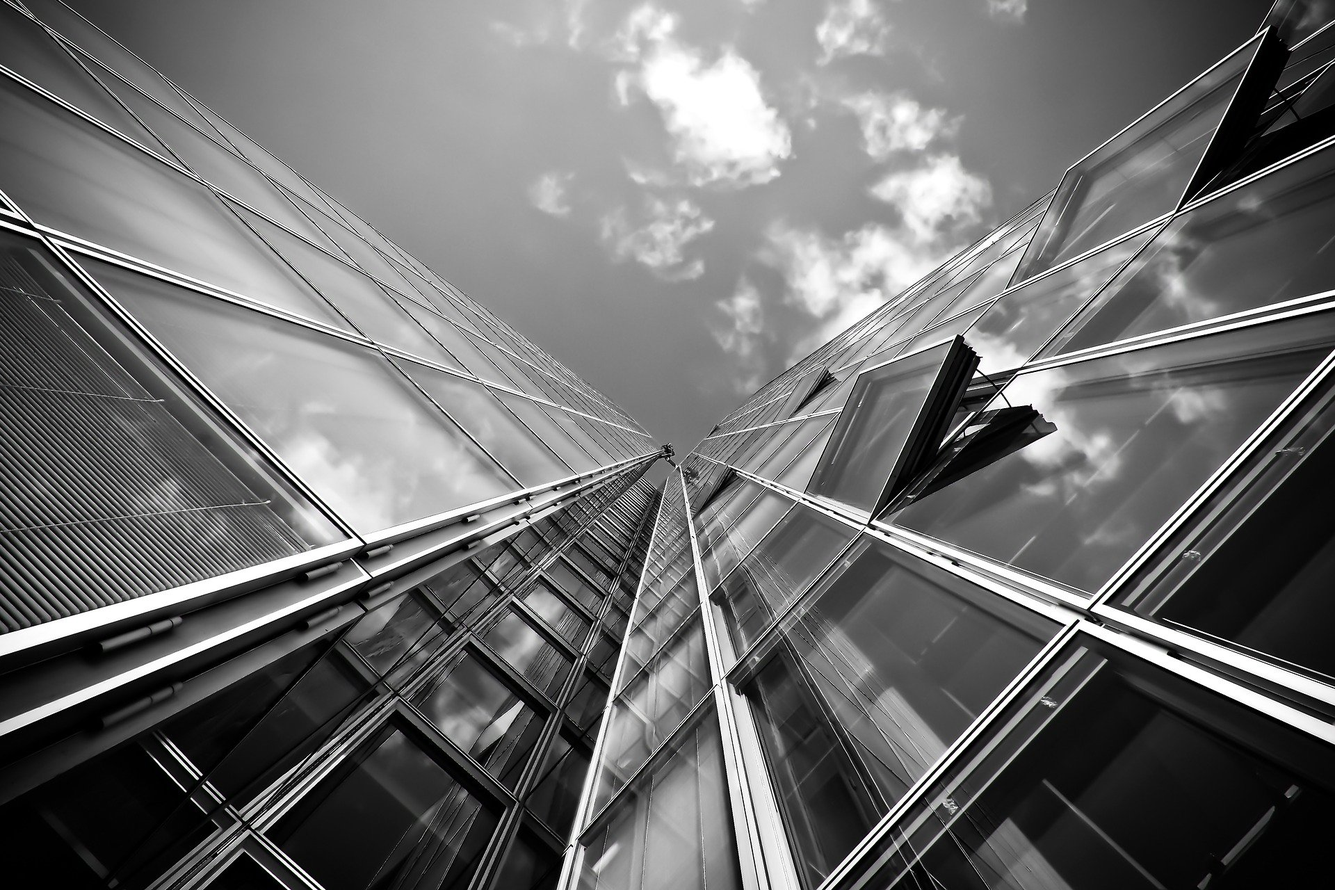
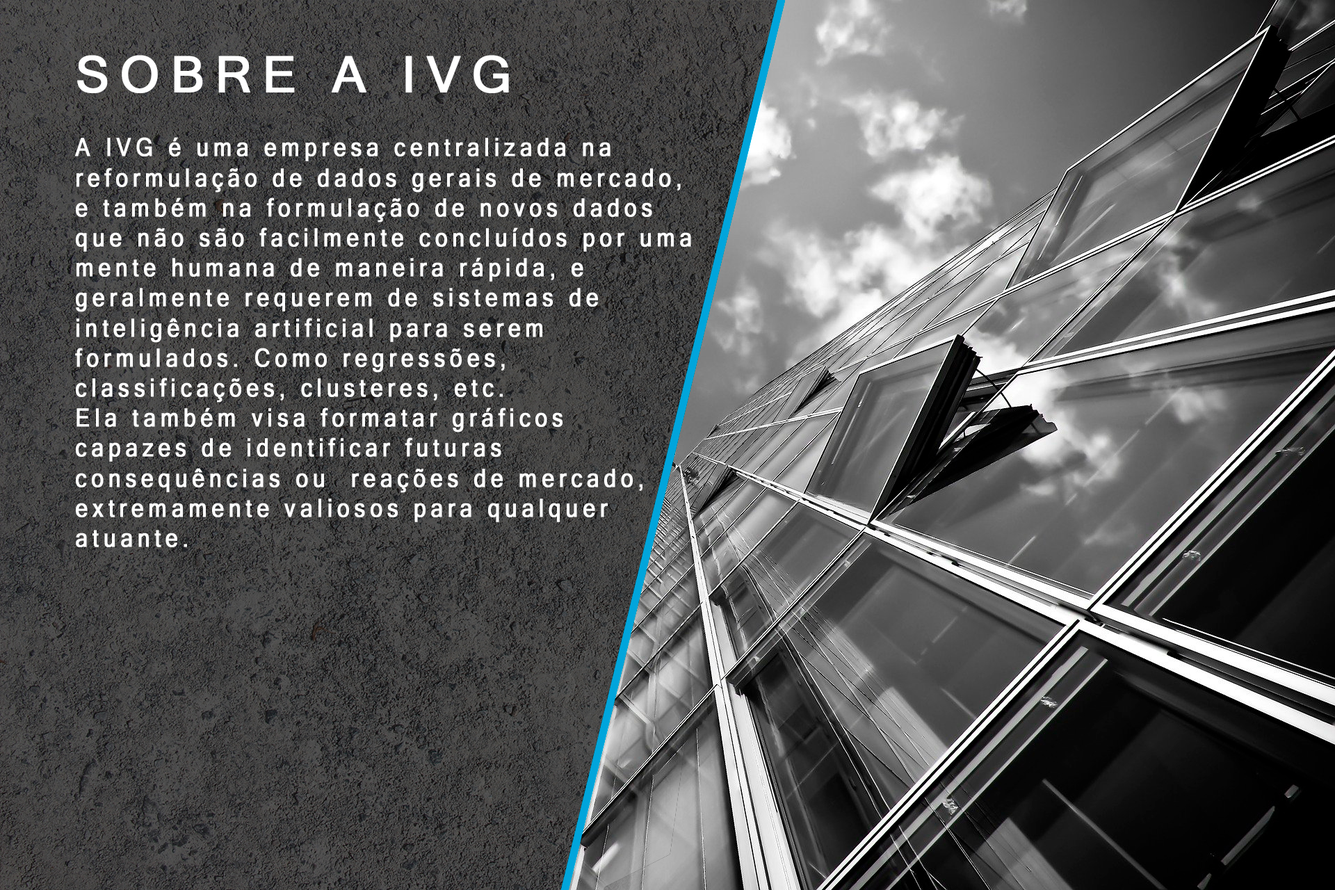
página sobre atualizada

diff --git a/FlaskCodePacote/Templates/Sobre.html b/FlaskCodePacote/Templates/Sobre.html
@@ -1,7 +1,7 @@
 {% extends "Layout.html" %}
 {% block content %}
-<div class="container-fluid mt-5" style="background-image: url(static/imagens/Sobre-Background.jpg); background-size: cover; height: 400px; margin: 35px 0 0 0; padding: 9% 0; width: 100%;">
-  <div class="col-lg bg-dark" style="opacity: .9">
+<div class="container-fluid" style="background-image: url(static/imagens/Sobre-Background.jpg); background-size: cover; height: 60vw; margin: 10px 0 0 0; padding: 9% 0; width: 100%;">
+  <div class="col-lg bg-dark d-none" style="opacity: .9">
     <h1 style="padding-left: 60px; letter-spacing: 5px;">Diretrizes da IVG</h1>
         <p style="list-style: none; font-size: 12px; margin-left: 60px; width: 400px;">A IVG é uma empresa centralizada na reformulação de dados gerais de mercado, e também na formulação de novos dados que não são facilmente concluídos por uma mente humana de maneira rápida, e geralmente requerem de sistemas de inteligência artificial para serem formulados. Como regressões, classificações, clusteres, etc. Ela tambem visa formatar graficos capazes de
         identificar futuras consequências ou  reações de mercado, extremamente valiosos para qualquer atuante.</p>
